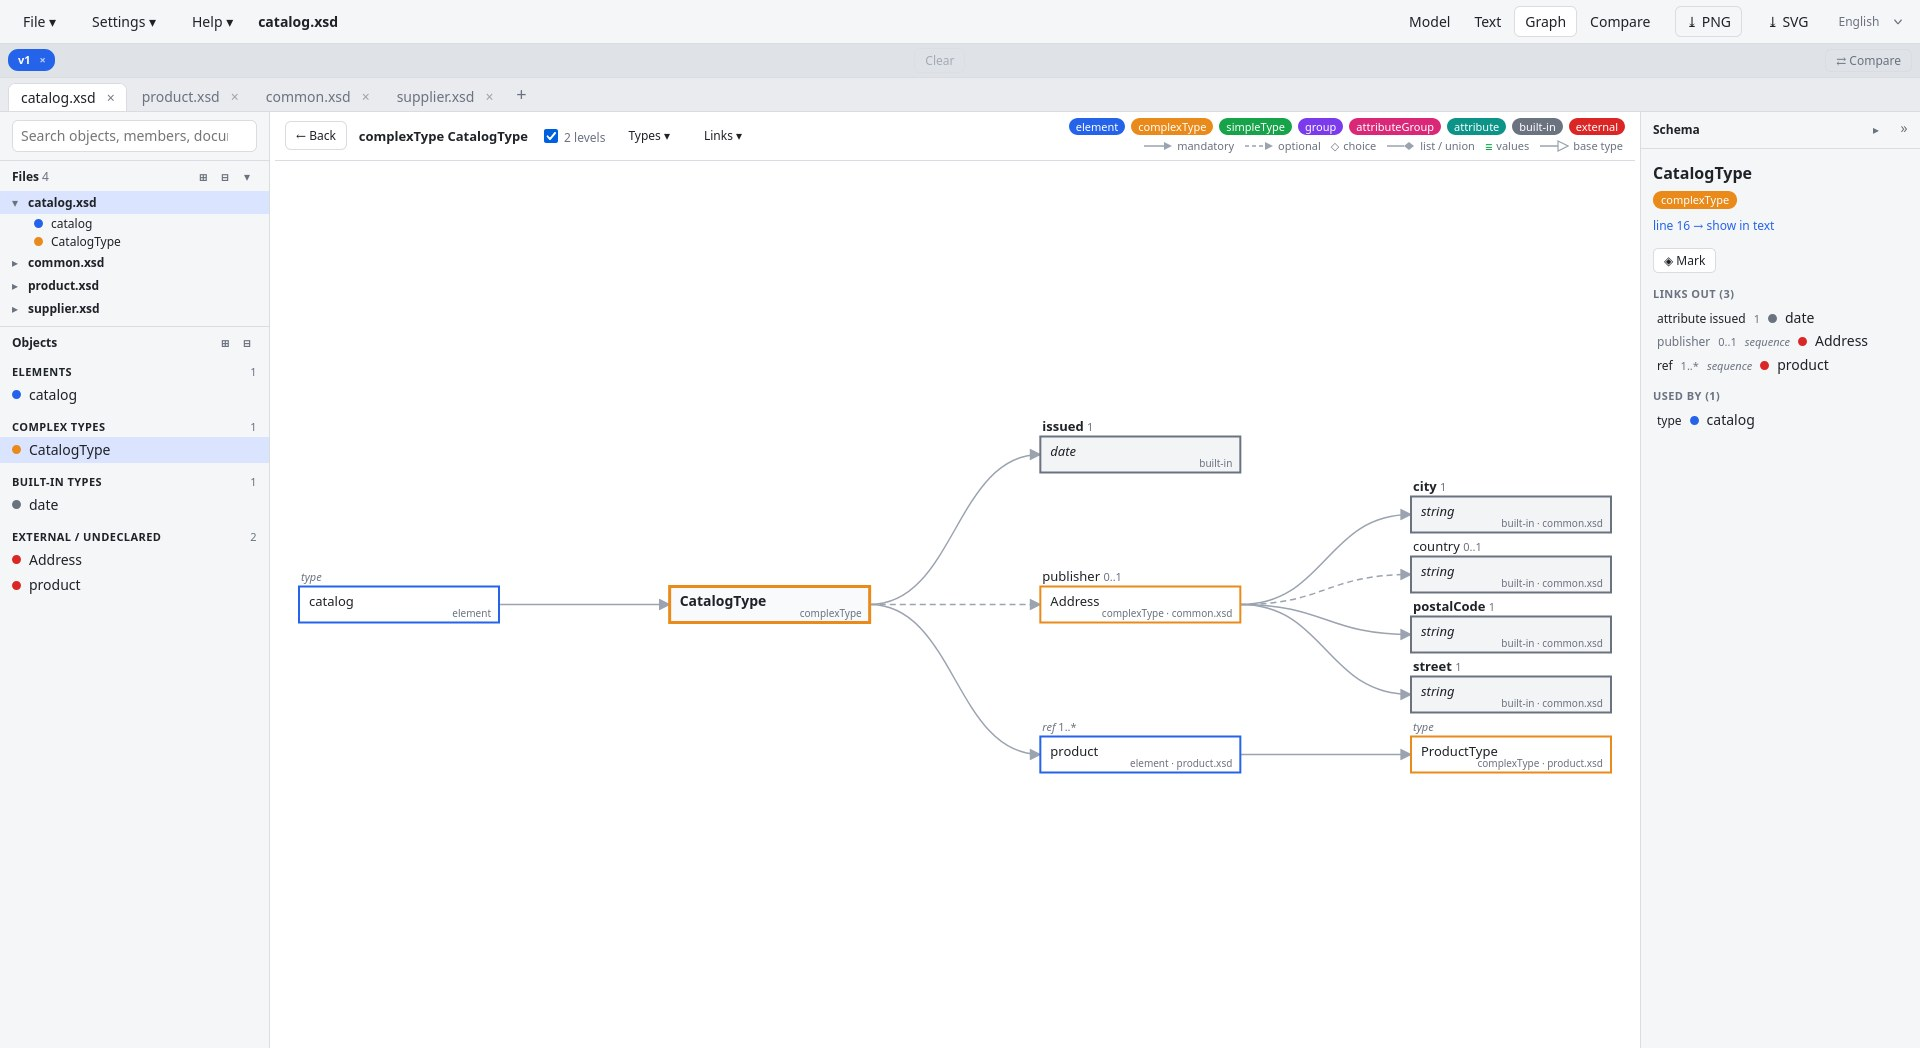
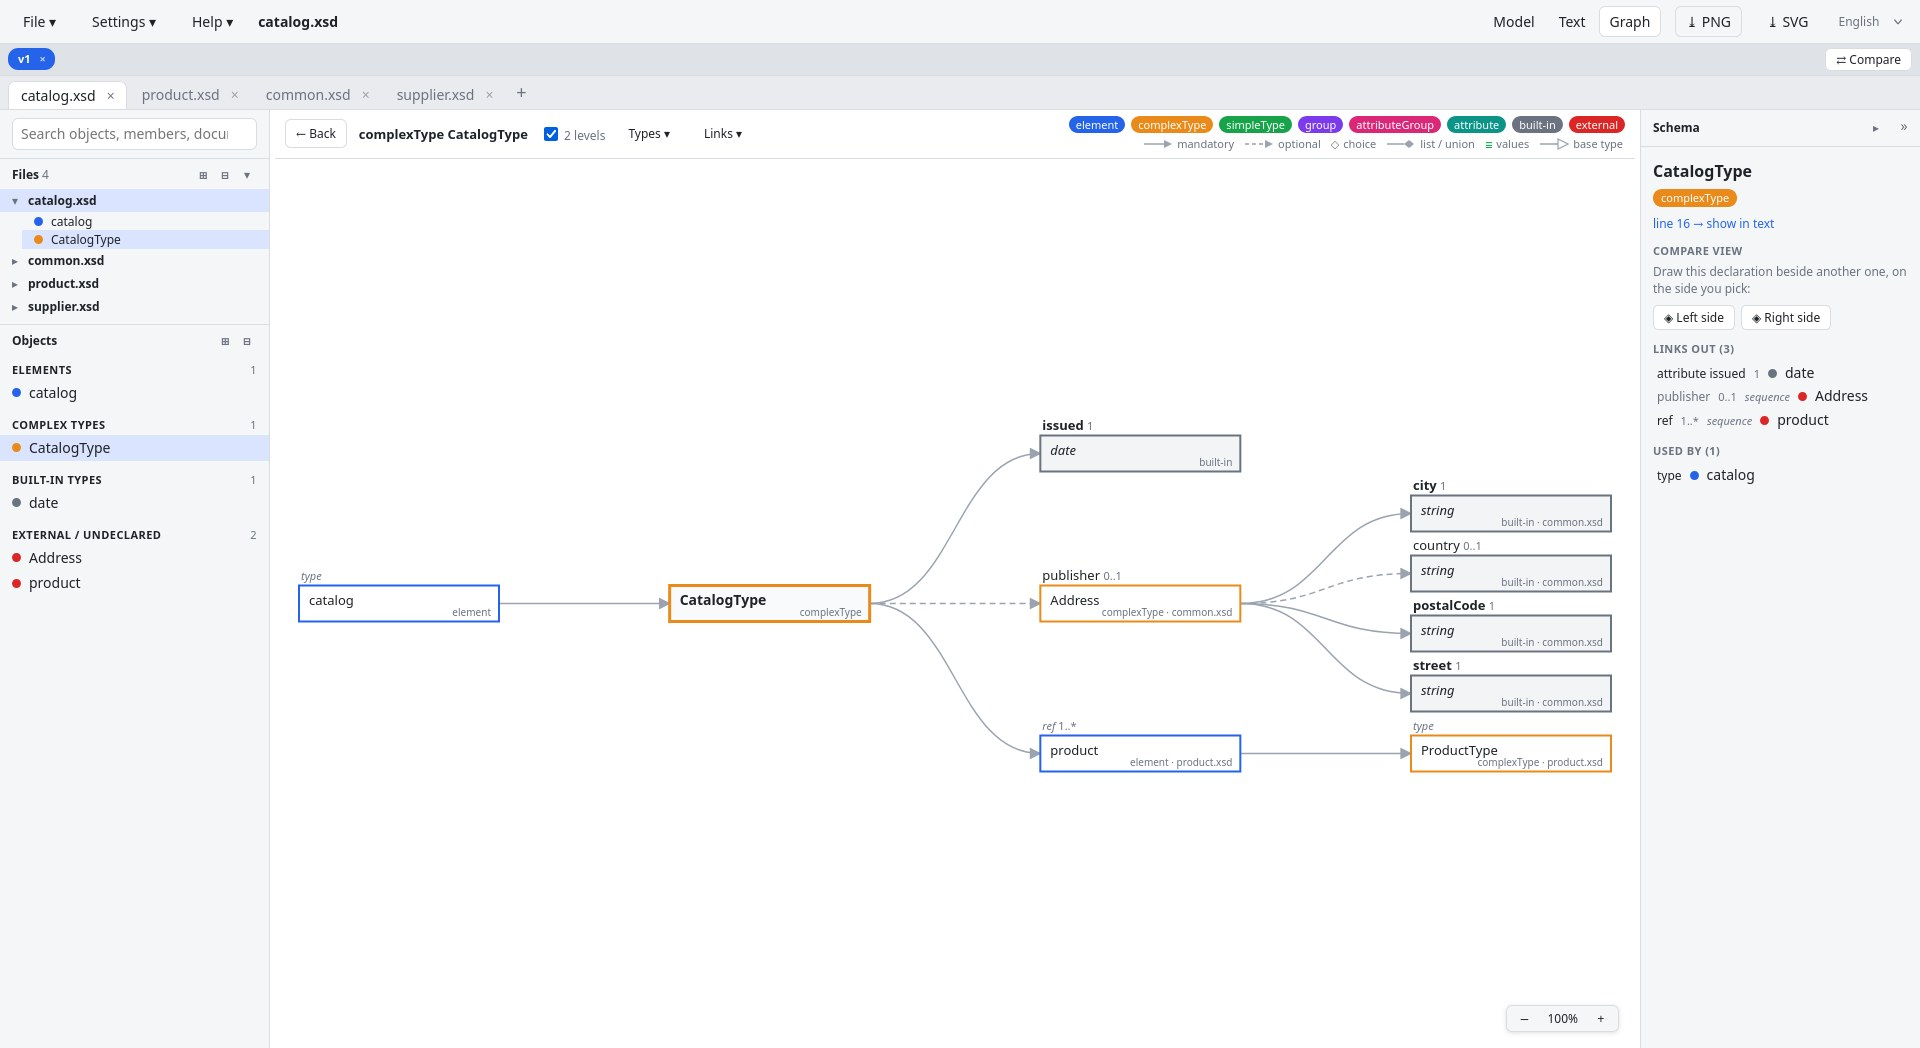
Version 4.9.0: the top bar's right end holds the edge, the comparison opens on the ready section
The controls of the right end of the top bar are pushed right as a group, and
the push was carried by the view tabs; the comparison hides them, so the
language list fell back to the middle of the bar. A wrapper carries the push
instead, and the group holds the edge whichever of its controls is hidden.

Compare then opens on the section the selection is ready for, and the
Declarations section is named Objects.

Claude-Session: https://claude.ai/code/session_013SdfJ4b79pJQS3Tmx11xn2

diff --git a/src/main/resources/web/index.html b/src/main/resources/web/index.html
@@ -46,14 +46,17 @@
   </div>
   <span id="fileName" class="filename" data-i18n="status.noFile">No file loaded</span>
   <span id="busy" class="busy hidden" role="status" aria-live="polite"><span class="wheel" aria-hidden="true"></span><span id="busyLabel"></span></span>
-  <nav id="viewTabs" class="tabs">
-    <button class="tab active" data-view="model" type="button" data-i18n="view.model" data-i18n-title="view.model.title">Model</button>
-    <button class="tab" data-view="text" type="button" data-i18n="view.text" data-i18n-title="view.text.title">Text</button>
-    <button class="tab" data-view="graph" type="button" data-i18n="view.graph" data-i18n-title="view.graph.title">Graph</button>
-  </nav>
-  <button id="exportBtn" class="menubtn" type="button" data-i18n="export.button" data-i18n-title="export.title" disabled>⤓ PNG</button>
-  <button id="exportSvgBtn" class="menubtn" type="button" data-i18n="export.svg" data-i18n-title="export.svg.title" disabled>⤓ SVG</button>
-  <select id="language" class="opt" data-i18n-title="language.title"></select>
+  <!-- the controls of the right end of the bar: they stay flush right whichever of them is hidden -->
+  <div id="topbarRight">
+    <nav id="viewTabs" class="tabs">
+      <button class="tab active" data-view="model" type="button" data-i18n="view.model" data-i18n-title="view.model.title">Model</button>
+      <button class="tab" data-view="text" type="button" data-i18n="view.text" data-i18n-title="view.text.title">Text</button>
+      <button class="tab" data-view="graph" type="button" data-i18n="view.graph" data-i18n-title="view.graph.title">Graph</button>
+    </nav>
+    <button id="exportBtn" class="menubtn" type="button" data-i18n="export.button" data-i18n-title="export.title" disabled>⤓ PNG</button>
+    <button id="exportSvgBtn" class="menubtn" type="button" data-i18n="export.svg" data-i18n-title="export.svg.title" disabled>⤓ SVG</button>
+    <select id="language" class="opt" data-i18n-title="language.title"></select>
+  </div>
 </header>
 
 <div id="workspaceBar">
@@ -224,7 +227,7 @@
     </div>
     <div id="comparison" class="view hidden">
       <div id="comparisonSections" role="tablist">
-        <button class="csection-tab" type="button" data-section="objects" data-i18n="comparison.objects" data-i18n-title="comparison.objects.title">Declarations</button>
+        <button class="csection-tab" type="button" data-section="objects" data-i18n="comparison.objects" data-i18n-title="comparison.objects.title">Objects</button>
         <button class="csection-tab" type="button" data-section="files" data-i18n="comparison.files" data-i18n-title="comparison.files.title">Files</button>
       </div>
     <div id="objectCompare" class="csection hidden">

diff --git a/src/main/resources/web/js/object-compare.js b/src/main/resources/web/js/object-compare.js
@@ -2,17 +2,17 @@
  * Comparing two declarations, wherever each of them lives: two versions of the same type in two
  * workspaces, two types of different names, two files that have nothing else in common.
  *
- * A declaration is *marked* from its details panel; two marks at a time, the oldest giving way to a
- * third. The **Compare** view then draws the content model of each side by side, every box marked by
+ * A declaration is put on the left or on the right from its details panel, each side chosen. Once
+ * both are filled, the comparison draws their content models side by side, every box marked by
  * {@link markDifferences} — red for what only the left one has, green for what only the right one
- * has, blue for a box whose occurrences or type changed. With one mark it compares that one with the
- * declaration selected in the active tab, so a reference can be held while the rest is browsed.
+ * has, blue for a box whose occurrences or type changed.
  *
  * Neither file need be open in a tab: a workspace's listed file is indexed on demand
  * ({@link placeOfEntry}), which is also what lets a named type be opened from another file of that
  * same workspace, so the models are compared as deep as they can be read.
  */
 import { COMPARE_SECTION, TEXT, kindOfId, nameOfId } from './constants.js';
+import { canCompare } from './compare.js';
 import { placeOfEntry } from './declarations.js';
 import { $, CLS, ID, esc, legendHtml } from './dom.js';
 import { ensureModel } from './file-tabs.js';
@@ -50,10 +50,15 @@ export function markSide(side, tab, id) {
 
 export const clearMarks = () => { session.compared = { left: null, right: null }; folded().clear(); };
 
-/** ⇄ Compare: the comparison's chip appears on the workspace bar if it is not there, and is the place shown. */
+/**
+ * ⇄ Compare: the comparison's chip appears on the workspace bar if it is not there, and is the place
+ * shown. It opens on the section the selection is ready for: two workspaces picked on the bar are a
+ * file-by-file comparison, anything else the objects, which the details panel fills side by side.
+ */
 export function openComparison() {
   session.comparison.open = true;
   session.comparison.shown = true;
+  session.comparison.section = canCompare() ? COMPARE_SECTION.FILES : COMPARE_SECTION.OBJECTS;
 }
 
 /** Its × : the place goes and takes what it was comparing with it, so it opens on nothing next time. */

diff --git a/src/main/resources/web/style.css b/src/main/resources/web/style.css
@@ -188,7 +188,10 @@ html, body {
   max-width: 30vw;
 }
 
-.tabs { display: flex; gap: 2px; margin-left: auto; }
+/* the right end of the bar: the views, the exports and the language, kept together against the edge */
+#topbarRight { display: flex; align-items: center; gap: 14px; margin-left: auto; }
+
+.tabs { display: flex; gap: 2px; }
 .tab.active { background: var(--bg); border-color: var(--border); }
 
 .opt { color: var(--muted); white-space: nowrap; user-select: none; }

diff --git a/scripts/screenshots.py b/scripts/screenshots.py
@@ -280,9 +280,24 @@ SCENES = [
                  'section': "document.querySelector('#comparisonSections .csection-tab.active').textContent",
                  'chip': "document.querySelectorAll('#workspaces .cmpchip.active').length",
                  'tabbar': "document.getElementById('tabbar').classList.contains('hidden')",
-                 'viewTabs': "document.getElementById('viewTabs').classList.contains('hidden')"},
+                 'viewTabs': "document.getElementById('viewTabs').classList.contains('hidden')",
+                 # the right end of the bar stays against the edge although the views it holds are hidden here
+                 'languageAtRight': "Math.round(document.getElementById('topbar').getBoundingClientRect().right"
+                                    " - document.getElementById('language').getBoundingClientRect().right)"},
          expect={'rows': 5, 'summary': '5 files: 2 identical, 1 differ', 'section': 'Files', 'chip': 1,
-                 'tabbar': True, 'viewTabs': True}),   # a place of its own: no file tabs, no views
+                 'tabbar': True, 'viewTabs': True, 'languageAtRight': 12}),   # a place of its own: no file tabs, no views
+    dict(name='compare-opens-on', file='samples/compare/v1.xsdviewer.json', theme='light',
+         # the button opens the section the selection is ready for: two workspaces the files, else the objects
+         action=OPEN_V2 + OPEN_COMPARISON
+                + "const section = () => document.querySelector('#comparisonSections .csection-tab.active').textContent;"
+                "window.__selected = section();"
+                # its × takes the selection with it, so the next opening has none
+                "document.querySelector('#workspaces .cmpchip .wsclose').click();"
+                + OPEN_COMPARISON
+                + "window.__none = section();",
+         checks={'names': "[...document.querySelectorAll('#comparisonSections .csection-tab')].map(b => b.textContent).join('|')",
+                 'twoSelected': "window.__selected", 'noneSelected': "window.__none"},
+         expect={'names': 'Objects|Files', 'twoSelected': 'Files', 'noneSelected': 'Objects'}),
     dict(name='selection-in-panels', file='samples/purchaseOrder.xsd', theme='light',
          # a click in the Model view marks the object in the Files panel and in the object list
          action="document.querySelector('#nodeList .item[data-id=\"complexType:PurchaseOrderType\"]').click();"

diff --git a/PUBLISHING.md b/PUBLISHING.md
@@ -1,7 +1,7 @@
 # Publishing XsdViewer on GitHub
 
 What a public repository needs, what this repository already has, and the steps to publish.
-Checked against the tree at version 2.6.0 (August 2026). **Published on 29–30 August 2026**: <https://github.com/j4ckk0/XsdViewer>; current release [v4.8.0](https://github.com/j4ckk0/XsdViewer/releases/tag/v4.8.0) (first one: v2.5.0).
+Checked against the tree at version 2.6.0 (August 2026). **Published on 29–30 August 2026**: <https://github.com/j4ckk0/XsdViewer>; current release [v4.9.0](https://github.com/j4ckk0/XsdViewer/releases/tag/v4.9.0) (first one: v2.5.0).
 
 ## 1. Required
 
@@ -54,7 +54,7 @@ Checked against the tree at version 2.6.0 (August 2026). **Published on 29–30 
 
 ## 5. Next release
 
-Followed for v2.6.0, v2.7.1 (30 August 2026) , v2.8.0, v3.0.0, v3.1.0, v3.2.0, v3.3.0 and v3.3.1 (2 September 2026), and v4.0.0, v4.0.1, v4.1.0, v4.2.0, v4.3.0, v4.4.0, v4.5.0, v4.6.0, v4.7.0, v4.8.0 (4 September 2026): version bump, tag, `scripts/package.sh`, release through the API — about ten minutes. When bumping, change the project's `<version>` only: a plugin in the `dist` profile may carry the same number (launch4j was 2.7.0).
+Followed for v2.6.0, v2.7.1 (30 August 2026) , v2.8.0, v3.0.0, v3.1.0, v3.2.0, v3.3.0 and v3.3.1 (2 September 2026), and v4.0.0, v4.0.1, v4.1.0, v4.2.0, v4.3.0, v4.4.0, v4.5.0, v4.6.0, v4.7.0, v4.8.0 (4 September 2026) and v4.9.0 (5 September 2026): version bump, tag, `scripts/package.sh`, release through the API — about ten minutes. When bumping, change the project's `<version>` only: a plugin in the `dist` profile may carry the same number (launch4j was 2.7.0).
 
 1. Turn the *Unreleased* section of `CHANGELOG.md` into `## X.Y.Z — date` (the release notes come from it), bump the version in `pom.xml`, commit `Version X.Y.Z`, `git tag -a vX.Y.Z -m "X.Y.Z"`, `git push github master vX.Y.Z`.
 2. The `release` workflow (`.github/workflows/release.yml`) does the rest on the pushed tag: it downloads the Temurin JDKs, runs `mvn package -Pdist` (jlink runtimes for Windows, Linux and macOS), and creates the Release from the changelog section with the archives and their checksums. Check the Actions run, then the release page.

diff --git a/CHANGELOG.md b/CHANGELOG.md
@@ -2,6 +2,12 @@
 
 What each version brought, newest first. The GitHub Releases carry the same notes with the downloads and their checksums.
 
+## 4.9.0 — 2026-09-05
+
+- **Fix: the language selector left the right end of the top bar in the comparison.** The controls of that end are pushed right as a group, and what carried the push was the Model / Text / Graph tabs — hidden in the comparison, which is a place of its own and has no views. The whole group, tabs, exports and language, now holds the right edge whichever of them is hidden.
+- **The comparison opens on the section the selection is ready for**: **Files** when two workspace chips are selected, the objects otherwise.
+- **The Declarations section is named Objects** (*Objets*), the word the rest of the page uses for what a schema declares.
+
 ## 4.8.0 — 2026-09-04
 
 - **Comparing is a place of its own, not a view of a file.** **⇄ Compare** puts a chip beside the workspace chips, and that chip holds both comparisons as two sections: **Declarations**, two declarations side by side, and **Files**, two workspaces file by file. It is no workspace and no file — no tabs, no Model / Text / Graph, none of a workspace's doings — and its **×** closes it and forgets what it was comparing. A workspace shows its files and nothing else, so the fourth view tab goes, and so does the comparison tab that used to sit inside a workspace. Opening one file pair in a tab of its own goes with it: a row still expands to its differences where it sits.

diff --git a/README.md b/README.md
@@ -459,9 +459,11 @@ Opening and saving need the server's dialogs, i.e. a display.
 **⇄ Compare** on the workspace bar opens the comparison: a chip of its own beside the workspace
 chips, and a place rather than a view of a file — it has no tabs and no Model / Text / Graph, since
 what it draws belongs to no single file. Clicking a workspace chip returns to that workspace, the
-chip's **×** closes the comparison and forgets what it was comparing. It holds two sections.
+chip's **×** closes the comparison and forgets what it was comparing. It holds two sections, and it
+opens on the one the selection is ready for: **Files** when two workspace chips are selected on the
+bar, **Objects** otherwise.
 
-**Declarations** — two declarations side by side, wherever each of them lives: two versions of the
+**Objects** — two declarations side by side, wherever each of them lives: two versions of the
 same type in two workspaces, or two types that merely resemble one another. The details panel of a
 declaration fills one side from its **Compare view** section: **◈ Left side** or **◈ Right side**,
 chosen, so which side a declaration lands on is never a matter of the order things were picked in;
